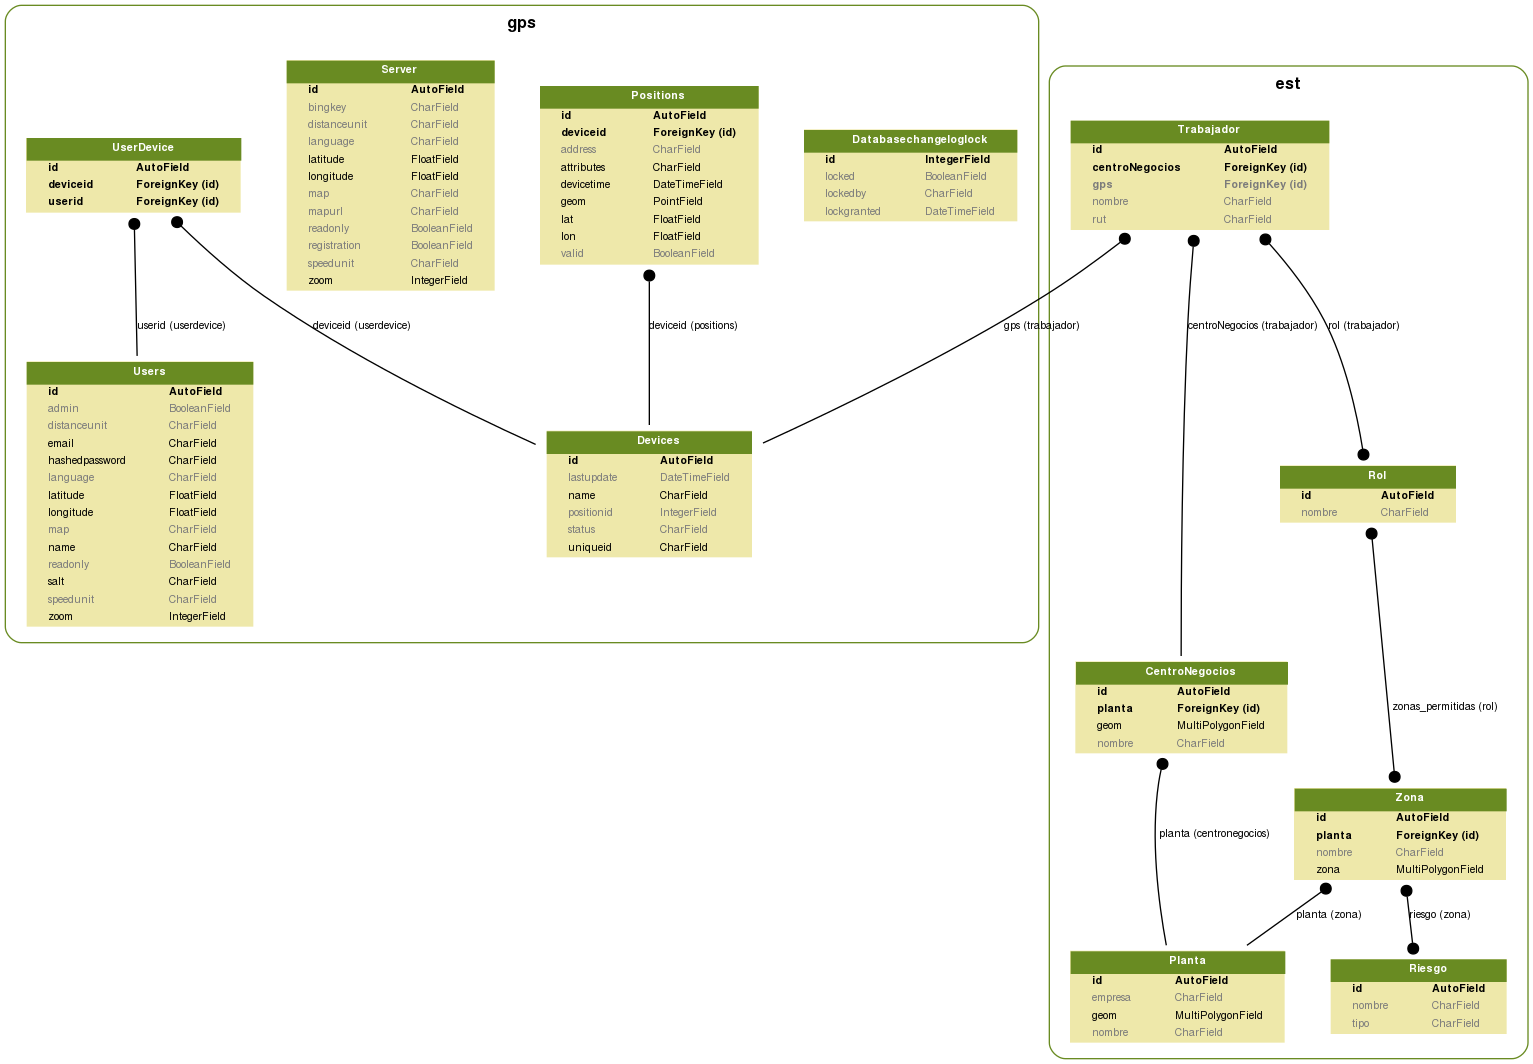
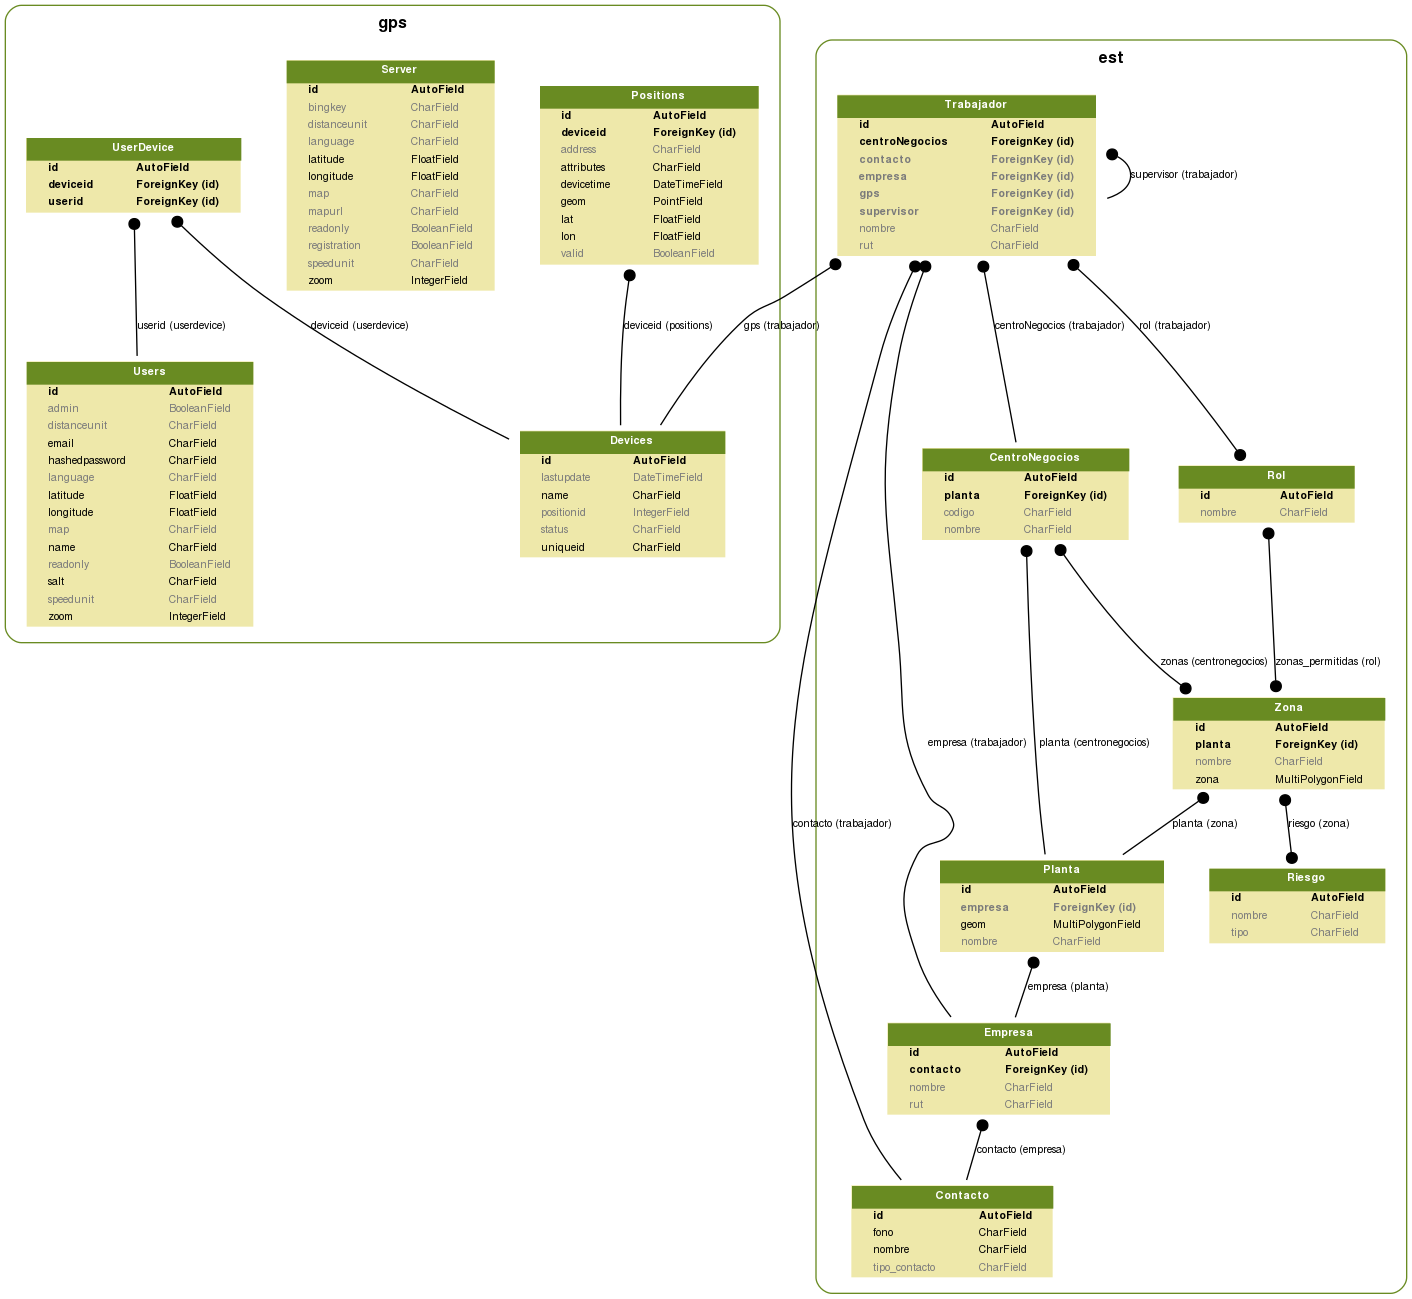
nueva base datos

diff --git a/est/migrations/0005_auto_20160218_1954.py b/est/migrations/0005_auto_20160218_1954.py
@@ -1,0 +1,49 @@
+# -*- coding: utf-8 -*-
+# Generated by Django 1.9.2 on 2016-02-18 19:54
+from __future__ import unicode_literals
+
+from django.db import migrations, models
+import django.db.models.deletion
+
+
+class Migration(migrations.Migration):
+
+    dependencies = [
+        ('est', '0004_auto_20160218_1555'),
+    ]
+
+    operations = [
+        migrations.CreateModel(
+            name='Contacto',
+            fields=[
+                ('id', models.AutoField(auto_created=True, primary_key=True, serialize=False, verbose_name='ID')),
+                ('nombre', models.CharField(max_length=128)),
+                ('fono', models.CharField(max_length=128)),
+                ('tipo_contacto', models.CharField(blank=True, max_length=128, null=True)),
+            ],
+        ),
+        migrations.CreateModel(
+            name='Empresa',
+            fields=[
+                ('id', models.AutoField(auto_created=True, primary_key=True, serialize=False, verbose_name='ID')),
+                ('nombre', models.CharField(blank=True, max_length=128, null=True)),
+                ('rut', models.CharField(blank=True, max_length=128, null=True)),
+                ('contacto', models.ForeignKey(on_delete=django.db.models.deletion.CASCADE, to='est.Contacto')),
+            ],
+        ),
+        migrations.AlterField(
+            model_name='planta',
+            name='empresa',
+            field=models.ForeignKey(blank=True, null=True, on_delete=django.db.models.deletion.CASCADE, to='est.Empresa'),
+        ),
+        migrations.AddField(
+            model_name='trabajador',
+            name='contacto',
+            field=models.ForeignKey(blank=True, null=True, on_delete=django.db.models.deletion.CASCADE, to='est.Contacto'),
+        ),
+        migrations.AddField(
+            model_name='trabajador',
+            name='empresa',
+            field=models.ForeignKey(blank=True, null=True, on_delete=django.db.models.deletion.CASCADE, to='est.Empresa'),
+        ),
+    ]

diff --git a/est/models.py b/est/models.py
@@ -4,11 +4,22 @@ from django.contrib.gis.db import models
 
 from gps.models import Devices
 
-# Create your models here.
+
+class Contacto (models.Model):
+    nombre = models.CharField(max_length=128)
+    fono = models.CharField(max_length=128)
+    tipo_contacto = models.CharField(max_length=128, blank= True, null=True)
+
+
+class Empresa (models.Model):
+    nombre = models.CharField(max_length=128, blank=True, null=True)
+    rut = models.CharField(max_length=128, blank=True, null=True)
+    contacto = models.ForeignKey(Contacto)
+
 
 class Planta(models.Model):
     nombre = models.CharField(max_length=128, blank=True, null=True)
-    empresa = models.CharField(max_length=128, blank=True, null=True)
+    empresa = models.ForeignKey(Empresa, blank=True, null=True)
     geom = models.MultiPolygonField(srid=4326)
 
     objects = models.GeoManager()
@@ -60,6 +71,10 @@ class Trabajador(models.Model):
     rol = models.ManyToManyField(Rol)
     gps = models.ForeignKey(Devices, blank=True, null=True)
     supervisor = models.ForeignKey('Trabajador', blank=True, null=True)
+    empresa = models.ForeignKey(Empresa, blank=True, null=True)
+    contacto = models.ForeignKey(Contacto, blank=True, null=True)
     
     def __unicode__(self):
         return u"%s %s" % (self.id, self.nombre, self.centroNegocios)
+
+
